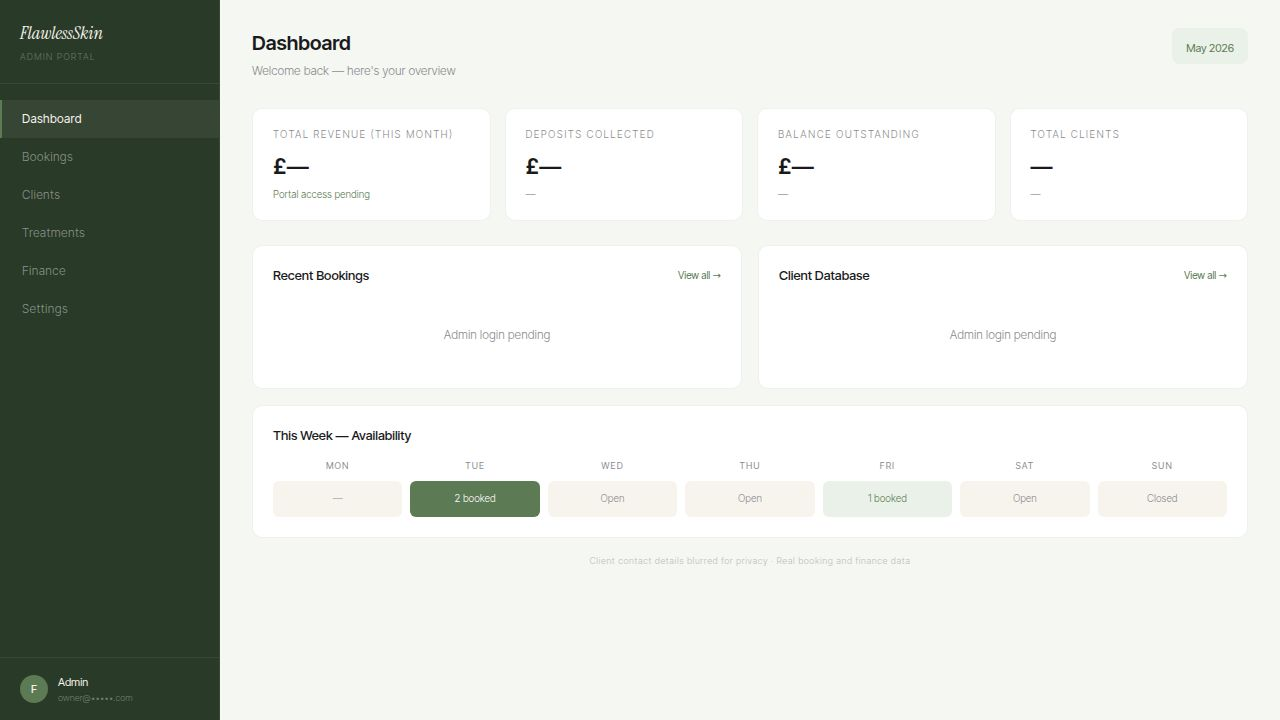
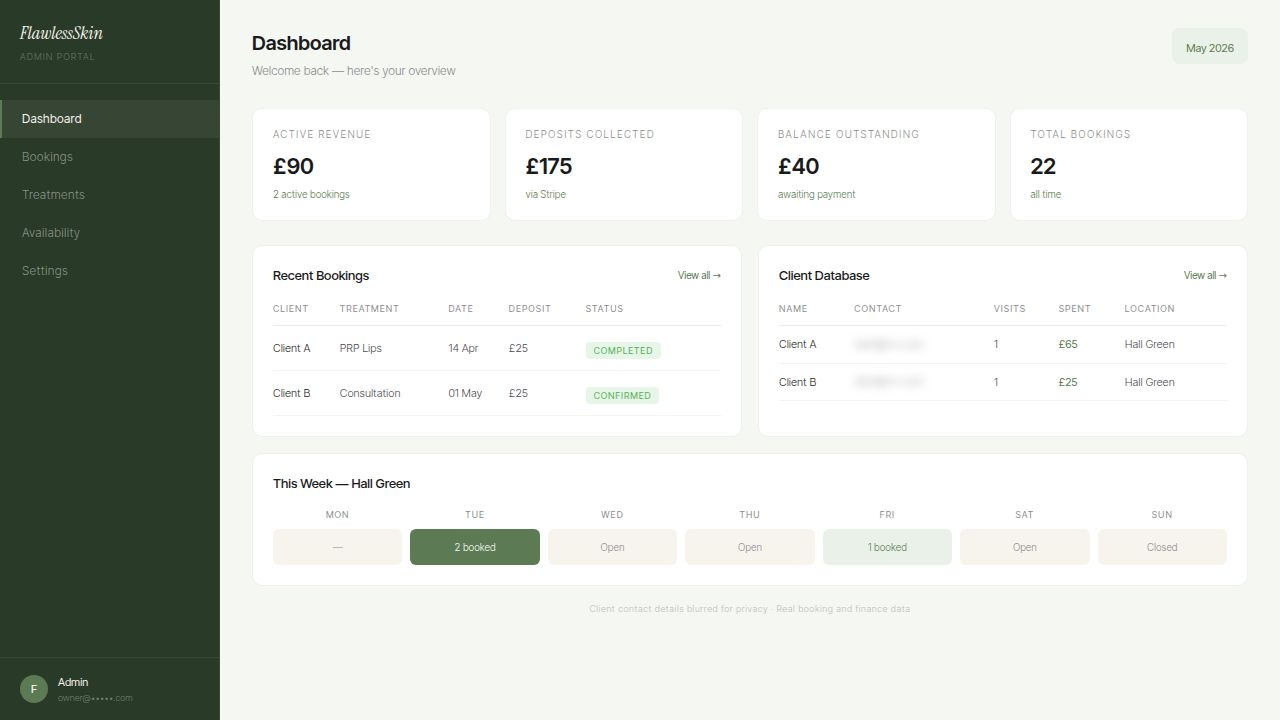
Update admin portal with real booking and financial data
Update AdminPreview component and case study screenshots to reflect actual FlawlessSkin booking data, including active revenue, deposits collected, and outstanding balances.

Replit-Commit-Author: Agent
Replit-Commit-Session-Id: 2e30ccf7-1f1b-4fd5-824b-6b3b71900477
Replit-Commit-Checkpoint-Type: full_checkpoint
Replit-Commit-Event-Id: 29f7bbbd-149e-4039-8b58-78a24d8f824d
Replit-Commit-Screenshot-Url: https://storage.googleapis.com/screenshot-production-us-central1/52372a35-586d-48e5-8519-69f121e412d8/2e30ccf7-1f1b-4fd5-824b-6b3b71900477/gcdP2PY
Replit-Helium-Checkpoint-Created: true

diff --git a/artifacts/aesthetix/src/pages/AdminPreview.tsx b/artifacts/aesthetix/src/pages/AdminPreview.tsx
@@ -69,14 +69,20 @@ const CONFIGS = {
     accentLight: '#EAF1E8',
     textLight: '#F7F4EE',
     stats: [
-      { label: 'Total Revenue (This Month)', value: '£—', sub: 'Portal access pending' },
-      { label: 'Deposits Collected', value: '£—', sub: '—' },
-      { label: 'Balance Outstanding', value: '£—', sub: '—' },
-      { label: 'Total Clients', value: '—', sub: '—' },
+      { label: 'Active Revenue', value: '£90', sub: '2 active bookings' },
+      { label: 'Deposits Collected', value: '£175', sub: 'via Stripe' },
+      { label: 'Balance Outstanding', value: '£40', sub: 'awaiting payment' },
+      { label: 'Total Bookings', value: '22', sub: 'all time' },
     ],
-    clients: [],
-    bookings: [],
-    nav: ['Dashboard', 'Bookings', 'Clients', 'Treatments', 'Finance', 'Settings'],
+    clients: [
+      { name: 'Client A', email: 'client@•••••.com', phone: '07XXX XXX XXX', visits: 1, spent: '£65', location: 'Hall Green' },
+      { name: 'Client B', email: 'client@•••••.com', phone: '07XXX XXX XXX', visits: 1, spent: '£25', location: 'Hall Green' },
+    ],
+    bookings: [
+      { client: 'Client A', treat: 'PRP Lips', date: '14 Apr', dep: '£25', status: 'Completed' },
+      { client: 'Client B', treat: 'Consultation', date: '01 May', dep: '£25', status: 'Confirmed' },
+    ],
+    nav: ['Dashboard', 'Bookings', 'Treatments', 'Availability', 'Settings'],
     weekLabel: 'Hall Green',
   },
 };

diff --git a/artifacts/aesthetix/src/pages/CaseStudyFlawlessSkin.tsx b/artifacts/aesthetix/src/pages/CaseStudyFlawlessSkin.tsx
@@ -28,7 +28,7 @@ As the first Aesthetix build, FlawlessSkin set the standard: clean branding, fas
   ],
   screenshots: [
     { src: '/portfolio/flawlessskin/01-homepage.png', caption: 'Homepage — desktop view' },
-    { src: '/portfolio/flawlessskin/05-admin-dashboard.jpg', caption: 'Admin Portal — dashboard layout' },
+    { src: '/portfolio/flawlessskin/05-admin-dashboard.jpg', caption: 'Admin Portal — dashboard (real data, contacts blurred)' },
   ],
   techStack: ['React', 'Vite', 'TypeScript', 'Supabase', 'Stripe', 'Resend', 'Tailwind CSS', 'Vercel'],
 };